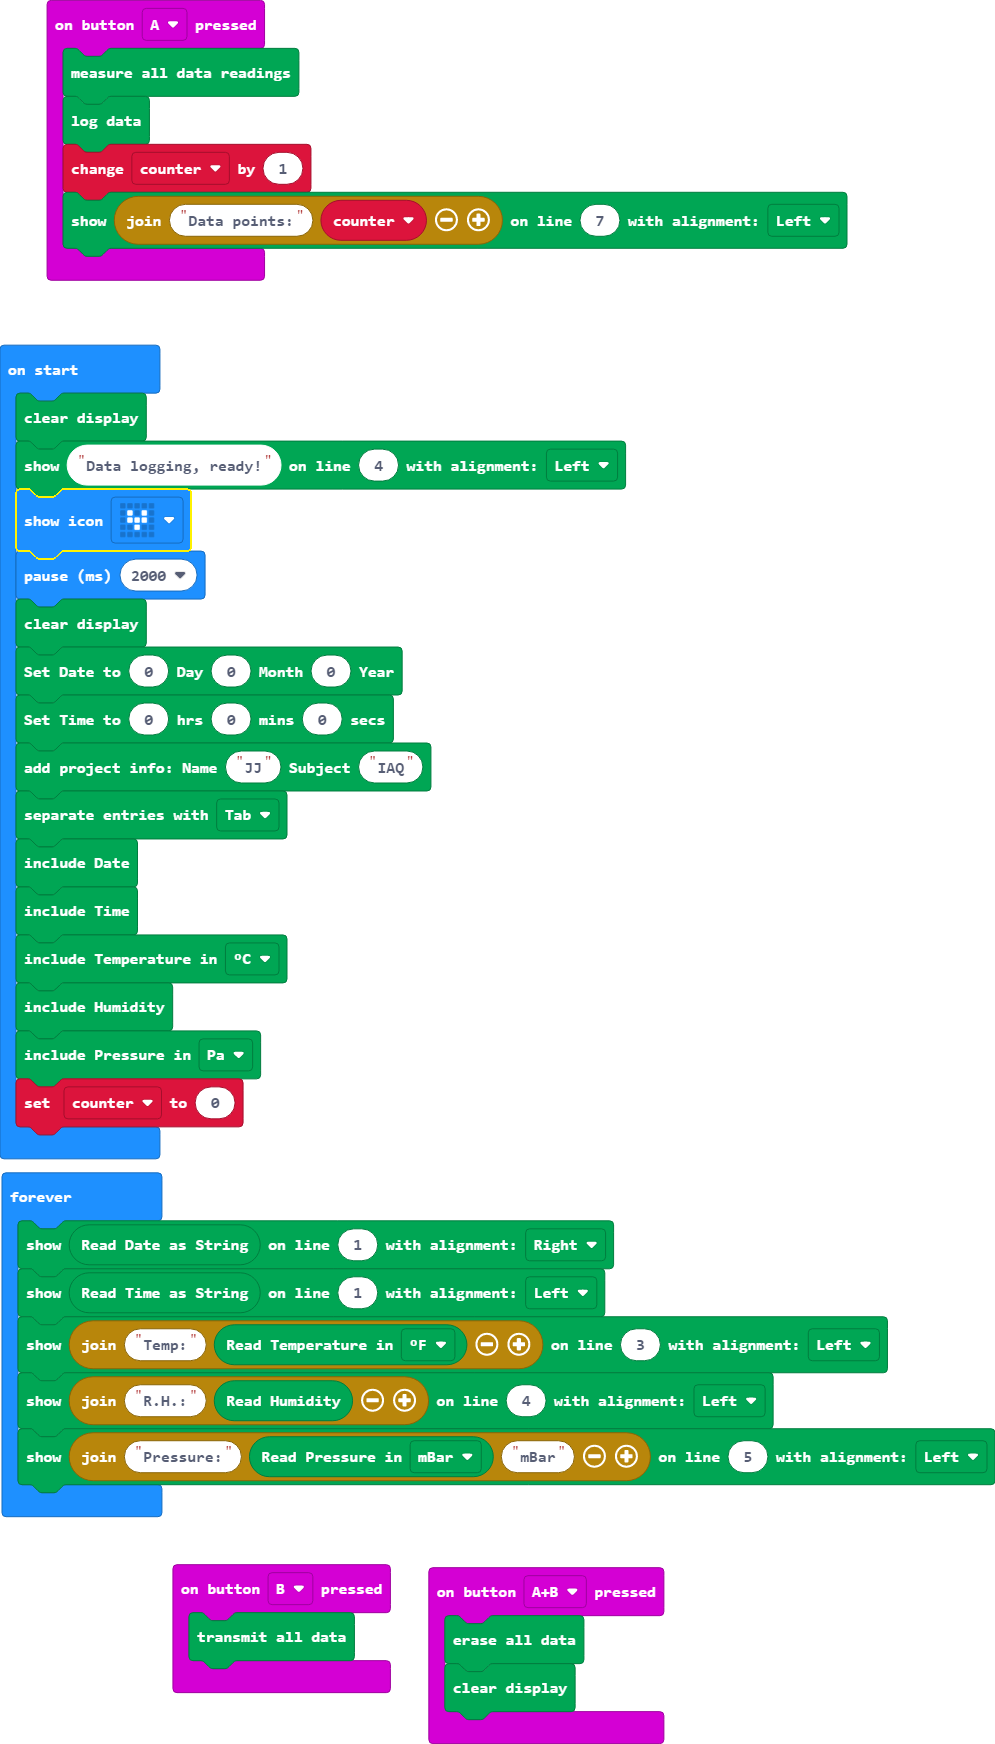
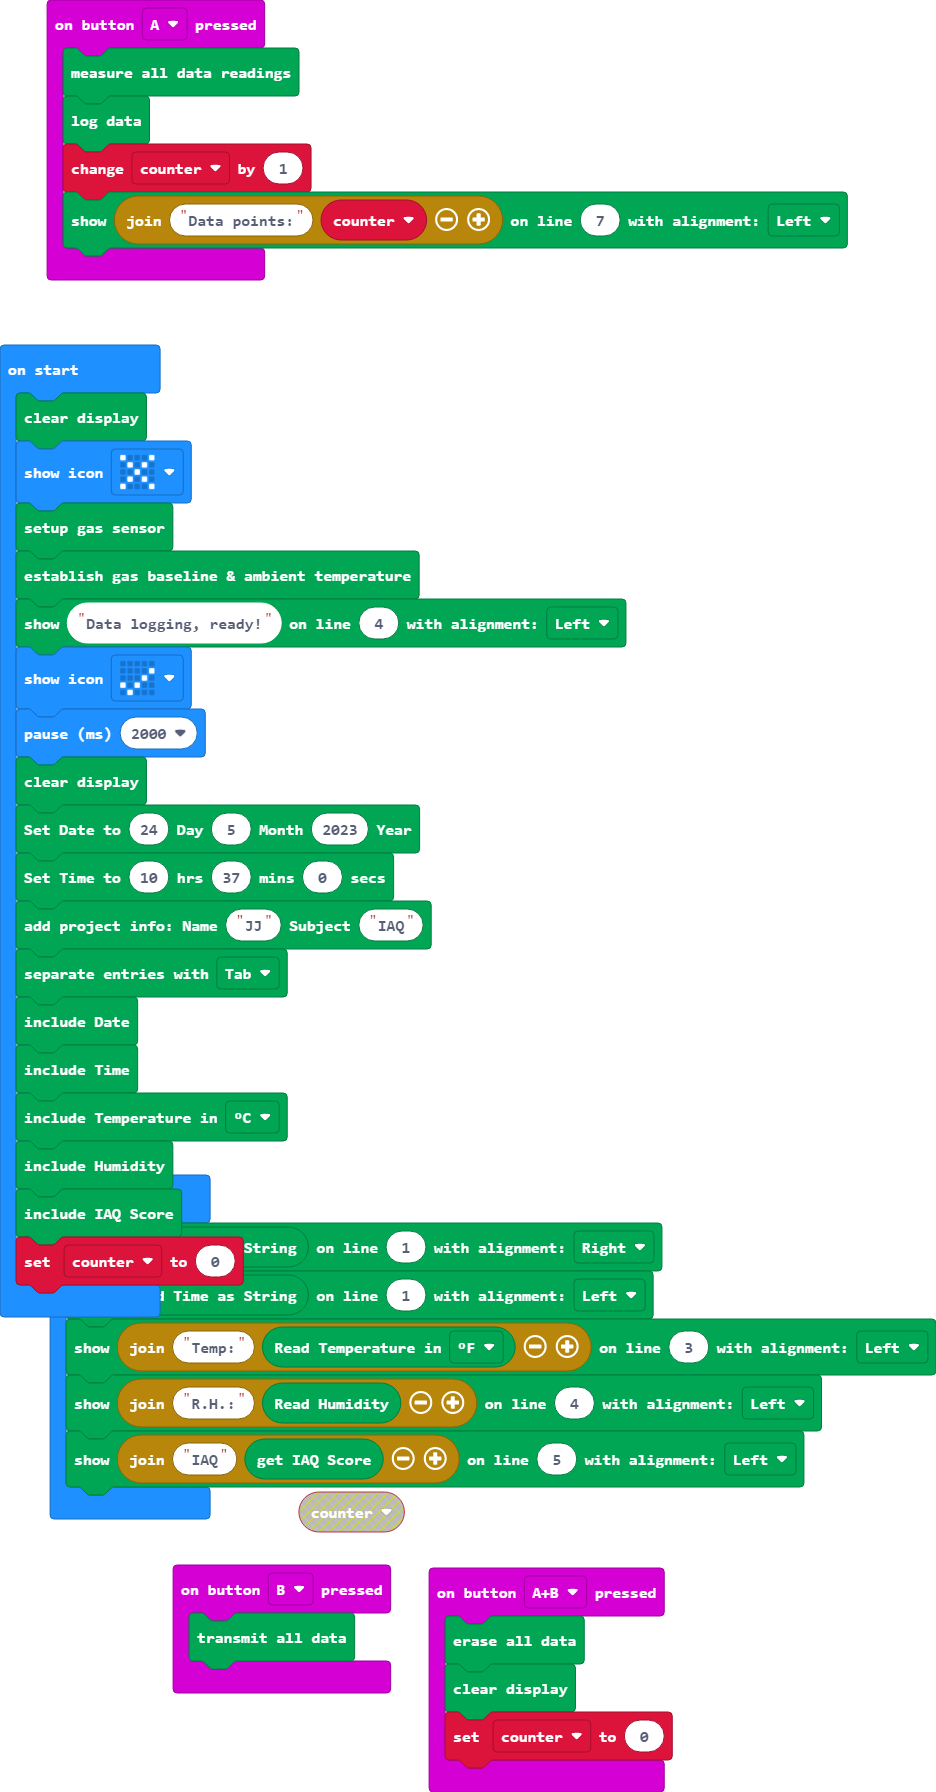
Update main.blocks, main.ts

diff --git a/main.ts b/main.ts
@@ -7,30 +7,34 @@ input.onButtonPressed(Button.A, function () {
 input.onButtonPressed(Button.AB, function () {
     kitronik_air_quality.eraseData()
     kitronik_air_quality.clear()
+    counter = 0
 })
 input.onButtonPressed(Button.B, function () {
     kitronik_air_quality.sendAllData()
 })
 let counter = 0
 kitronik_air_quality.clear()
+basic.showIcon(IconNames.No)
+kitronik_air_quality.setupGasSensor()
+kitronik_air_quality.calcBaselines()
 kitronik_air_quality.show("Data logging, ready!", 4, kitronik_air_quality.ShowAlign.Left)
-basic.showIcon(IconNames.SmallHeart)
+basic.showIcon(IconNames.Yes)
 basic.pause(2000)
 kitronik_air_quality.clear()
-kitronik_air_quality.setDate(0, 0, 0)
-kitronik_air_quality.setTime(0, 0, 0)
+kitronik_air_quality.setDate(24, 5, 2023)
+kitronik_air_quality.setTime(10, 37, 0)
 kitronik_air_quality.addProjectInfo("JJ", "IAQ")
 kitronik_air_quality.selectSeparator(kitronik_air_quality.Separator.tab)
 kitronik_air_quality.includeDate()
 kitronik_air_quality.includeTime()
 kitronik_air_quality.includeTemperature(kitronik_air_quality.TemperatureUnitList.C)
 kitronik_air_quality.includeHumidity()
-kitronik_air_quality.includePressure(kitronik_air_quality.PressureUnitList.Pa)
+kitronik_air_quality.includeIAQ()
 counter = 0
 basic.forever(function () {
     kitronik_air_quality.show(kitronik_air_quality.readDate(), 1, kitronik_air_quality.ShowAlign.Right)
     kitronik_air_quality.show(kitronik_air_quality.readTime(), 1, kitronik_air_quality.ShowAlign.Left)
     kitronik_air_quality.show("Temp:" + kitronik_air_quality.readTemperature(kitronik_air_quality.TemperatureUnitList.F), 3, kitronik_air_quality.ShowAlign.Left)
     kitronik_air_quality.show("R.H.:" + kitronik_air_quality.readHumidity(), 4, kitronik_air_quality.ShowAlign.Left)
-    kitronik_air_quality.show("Pressure:" + kitronik_air_quality.readPressure(kitronik_air_quality.PressureUnitList.mBar) + "mBar", 5, kitronik_air_quality.ShowAlign.Left)
+    kitronik_air_quality.show("IAQ" + kitronik_air_quality.getAirQualityScore(), 5, kitronik_air_quality.ShowAlign.Left)
 })
